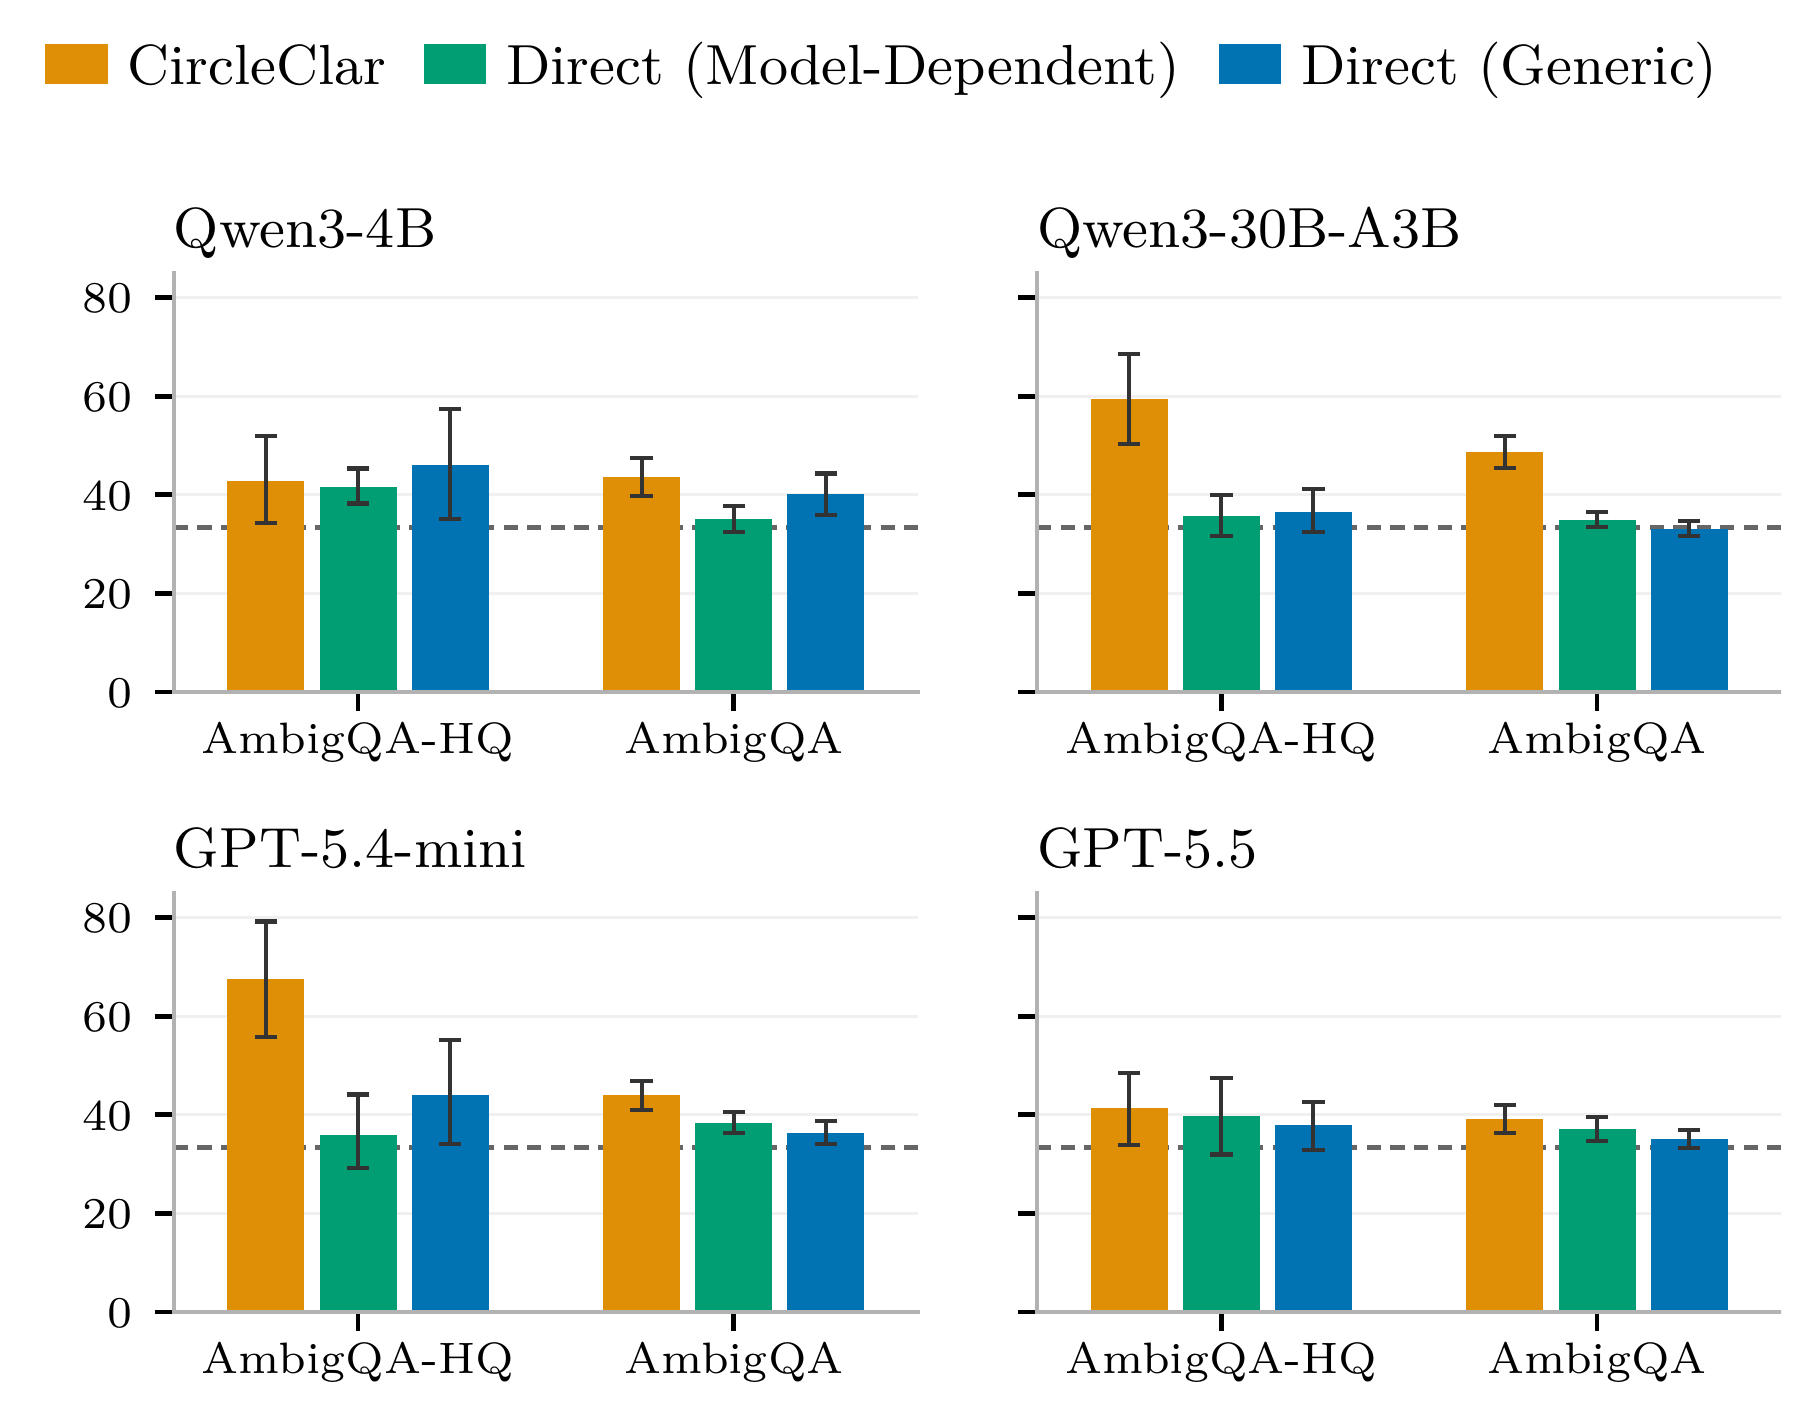
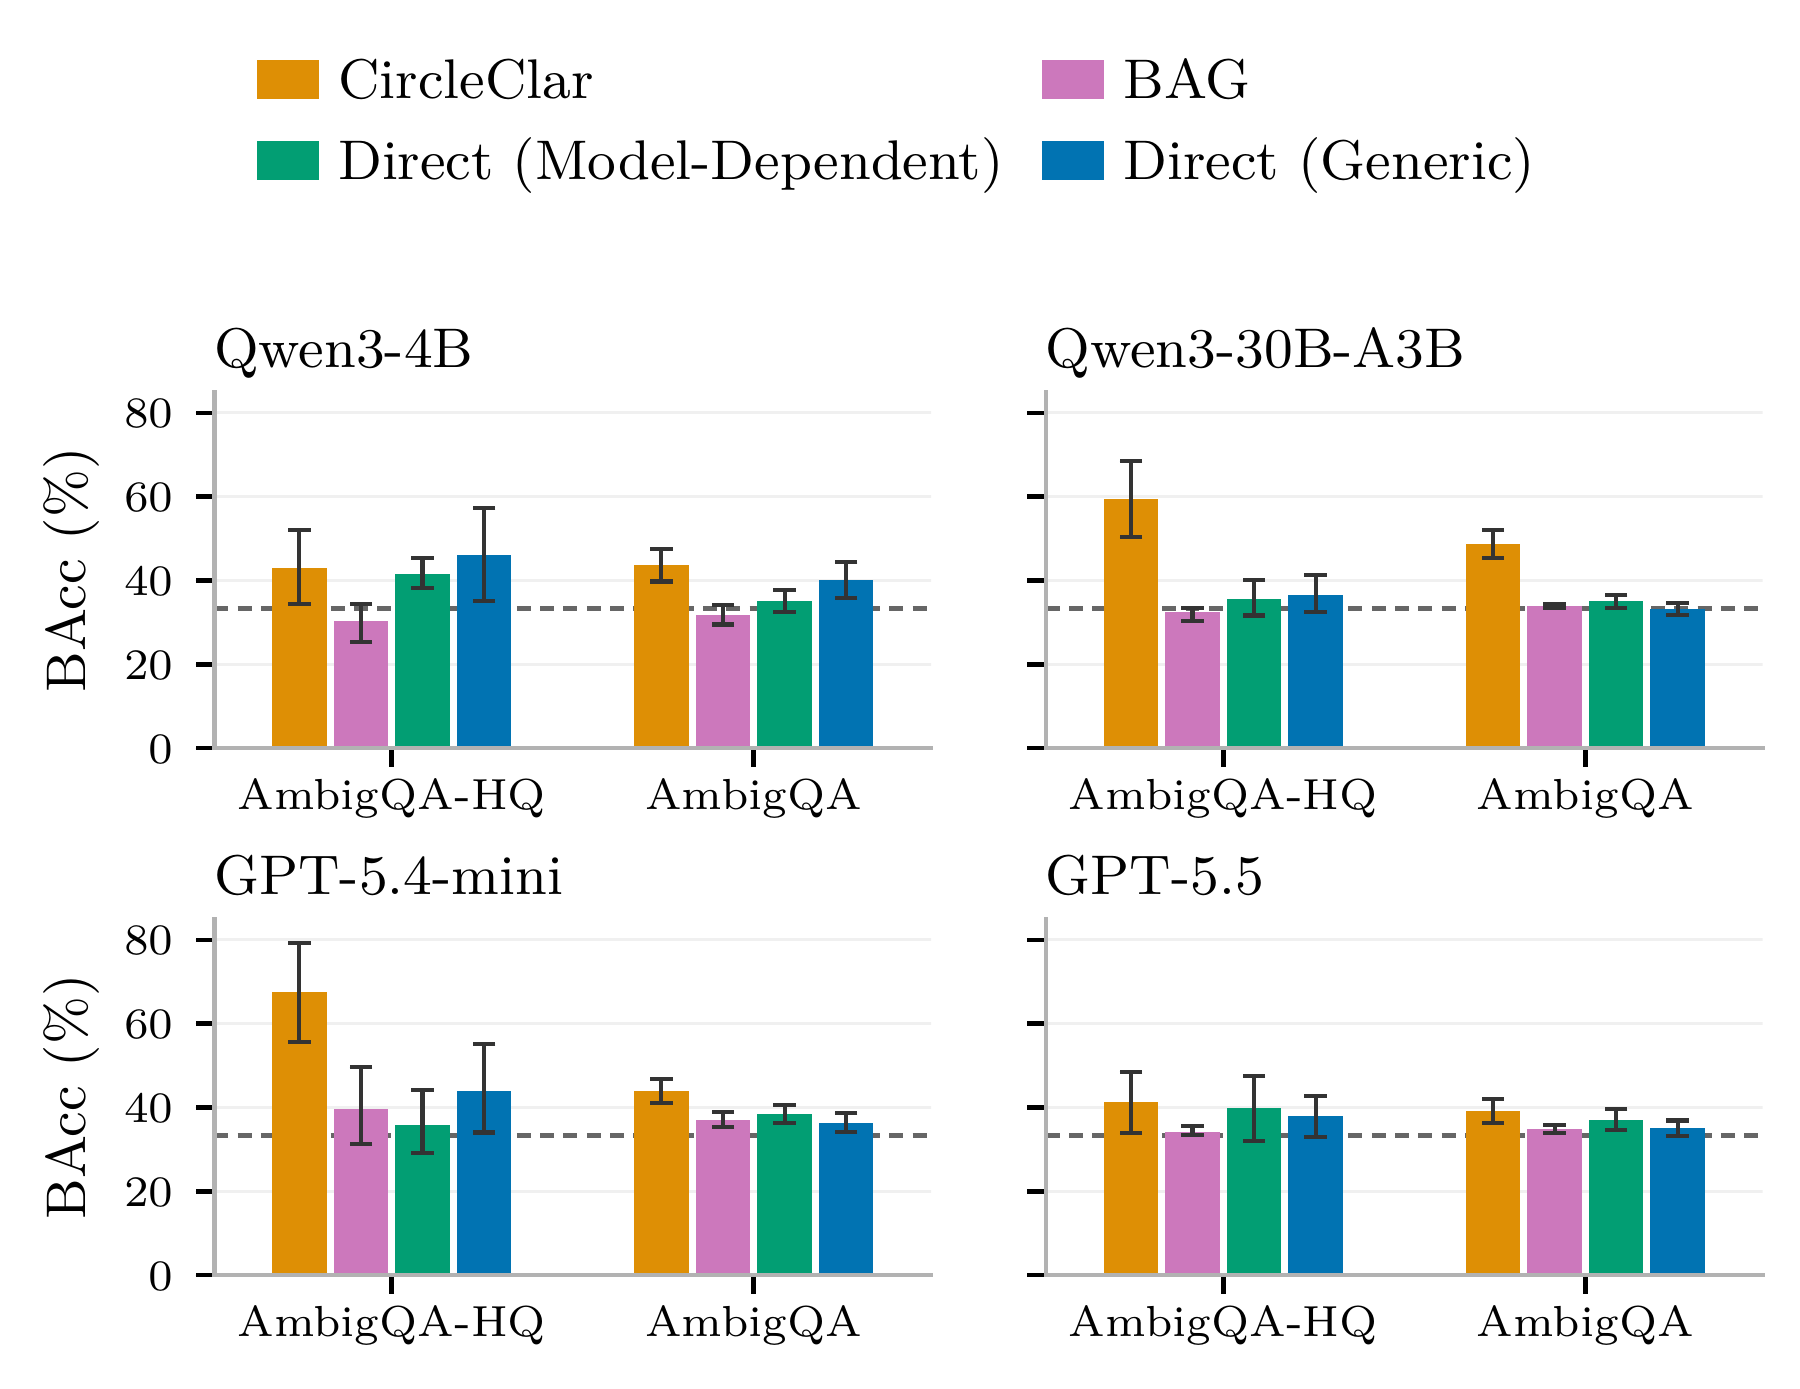
Update response policy plot and align paper affiliations

diff --git a/docs/index.html b/docs/index.html
@@ -42,7 +42,7 @@
     <section class="paper-header" aria-labelledby="paper-title">
       <h1 id="paper-title">What Is a Clarification<span class="title-question">?</span></h1>
       <p class="paper-subtitle">Estimating Model-Dependent Input Ambiguity</p>
-      <p class="authors"><span>Jingqin Tang<sup>*1,2</sup></span><span>Tim Tomov<sup>*1,2,3</sup></span><span>Sebastian Schmidt<sup>1,2</sup></span><span>Dominik Fuchsgruber<sup>1,2</sup></span><span>Stephan Günnemann<sup>1,2,3</sup></span></p>
+      <p class="authors"><span>Jingqin Tang<sup>*1</sup></span><span>Tim Tomov<sup>*1,2,3</sup></span><span>Sebastian Schmidt<sup>1</sup></span><span>Dominik Fuchsgruber<sup>1,2</sup></span><span>Stephan Günnemann<sup>1,2,3</sup></span></p>
       <p class="affiliation"><span><sup>1</sup>School of Computation, Information &amp; Technology, Technical University of Munich</span><span><sup>2</sup>Munich Data Science Institute</span><span><sup>3</sup>Munich Center for Machine Learning</span></p>
       <p class="equal-contribution"><sup>*</sup>Equal contribution</p>
       <p class="venue">LP4FM Workshop @ NeurIPS 2026</p>
@@ -269,11 +269,11 @@
           </article>
           <article class="result-card" aria-labelledby="policy-title">
             <h3 id="policy-title">Answer, clarify, or abstain?</h3>
-            <p class="result-measure"><strong>What we measure.</strong> The estimated set directly suggests a response: abstain if it is empty, answer if it holds one answer, clarify if it holds several. We compare this with asking the model for the decision directly, using a generic or a model-dependent prompt, and report balanced accuracy over the three actions.</p>
+            <p class="result-measure"><strong>What we measure.</strong> The estimated set directly suggests a response: abstain if it is empty, answer if it holds one answer, clarify if it holds several. We report balanced accuracy over the three actions, comparing CircleClar with direct generic and model-dependent decision prompts and BAG, which bases its decision on previously sampled responses.</p>
             <p class="chart-note">Balanced accuracy (%) · error bars: 95% bootstrap CIs · dashed line: constant policy</p>
             <figure class="result-figure">
-              <a class="figure-link" href="assets/images/policy.png" data-figure data-title="Answer, clarify, or abstain" data-original="assets/images/policy.pdf" aria-haspopup="dialog">
-      <img src="assets/images/policy.png" width="1800" height="1408" alt="Balanced accuracy of three-way response selection for four models on two QA datasets. CircleClar is compared with direct model-dependent and generic decision prompts, with 95% bootstrap confidence intervals and a constant-policy baseline." loading="lazy" decoding="async">
+              <a class="figure-link" href="assets/images/policy.png?v=1f6ac23dda50" data-figure data-title="Answer, clarify, or abstain" data-original="assets/images/policy.pdf?v=bb6008a8385b" aria-haspopup="dialog">
+      <img src="assets/images/policy.png?v=1f6ac23dda50" width="1800" height="1389" alt="Balanced accuracy of three-way response selection for four models on two QA datasets. CircleClar is compared with BAG and direct model-dependent and generic decision prompts, with 95% bootstrap confidence intervals and a constant-policy baseline." loading="lazy" decoding="async">
       <span class="figure-hint"><svg aria-hidden="true" focusable="false" xmlns="http://www.w3.org/2000/svg" width="24" height="24" viewBox="0 0 24 24" fill="none" stroke="currentColor" stroke-width="2" stroke-linecap="round" stroke-linejoin="round"><polyline points="15 3 21 3 21 9"/><polyline points="9 21 3 21 3 15"/><line x1="21" y1="3" x2="14" y2="10"/><line x1="3" y1="21" x2="10" y2="14"/></svg> View full size</span>
     </a>
             </figure>
